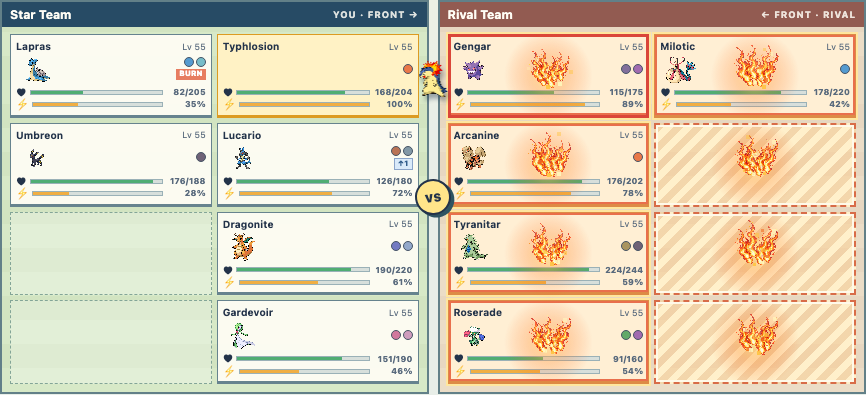
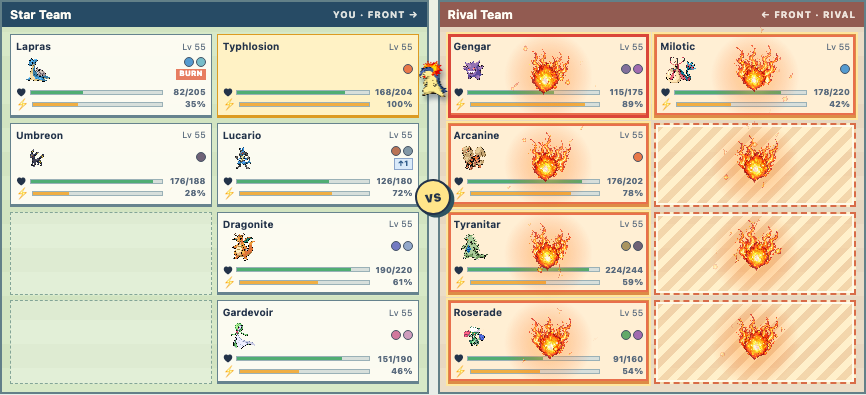
Refine Fire tile particles with varied ember sprites

diff --git a/web/src/battles/dev/FireVfxPrototype.tsx b/web/src/battles/dev/FireVfxPrototype.tsx
@@ -2,6 +2,9 @@
 import { useEffect, useRef, useState } from "react";
 import { createPortal } from "react-dom";
 import flameUrl from "../../../../media/vfx/experiments/fire-special-flame-source.png";
+import emberCoalUrl from "../../../../media/vfx/experiments/fire-ember-coal.png";
+import emberFleckUrl from "../../../../media/vfx/experiments/fire-ember-fleck.png";
+import emberForkUrl from "../../../../media/vfx/experiments/fire-ember-fork.png";
 
 export const fireVfxVariants = ["original", "bloom", "column", "burst"] as const;
 export type FireVfxVariant = typeof fireVfxVariants[number];
@@ -45,6 +48,7 @@ export const FireVfxSwitcher = ({ variant, onChange }: {
 };
 
 type Tile = { x: number; y: number; radius: number };
+type FireTextures = { flame: HTMLImageElement; embers: HTMLImageElement[] };
 const random = (seed: number) => {
   const value = Math.sin(seed * 127.1 + 311.7) * 43758.5453;
   return value - Math.floor(value);
@@ -74,29 +78,36 @@ const drawGlow = (ctx: CanvasRenderingContext2D, tile: Tile, time: number, stren
   ctx.fillRect(tile.x - radius, tile.y - radius, radius * 2, radius * 2);
 };
 
-const drawEmbers = (ctx: CanvasRenderingContext2D, tile: Tile, ms: number,
-  count: number, burst: boolean, seed: number) => {
+const drawEmbers = (ctx: CanvasRenderingContext2D, textures: FireTextures, tile: Tile,
+  ms: number, count: number, burst: boolean, seed: number) => {
   for (let index = 0; index < count; index++) {
-    const birth = burst ? 95 + random(seed + index * 7) * 110 : index * 40;
-    const life = 350 + random(seed + index * 13) * 260;
+    const particleSeed = seed + index * 101;
+    const birth = 35 + random(particleSeed + 7) * (burst ? 170 : 190);
+    const life = 180 + random(particleSeed + 13) * (burst ? 260 : 200);
     const age = (ms - birth) / life;
     if (age < 0 || age > 1) continue;
-    const angle = random(seed + index * 17) * Math.PI * 2;
-    const speed = (.4 + random(seed + index * 23)) * tile.radius;
-    const x = tile.x + (burst ? Math.cos(angle) * speed * age :
-      (random(seed + index * 19) - .5) * tile.radius * (.35 + age));
-    const y = tile.y + (burst ? Math.sin(angle) * speed * age :
-      tile.radius * .24 - speed * age * 1.2);
-    const size = Math.max(1.5, tile.radius * (.045 + random(seed + index * 29) * .045));
-    ctx.globalAlpha = Math.pow(1 - age, .7) * .95;
-    ctx.fillStyle = index % 3 === 0 ? "#fff8bd" : index % 3 === 1 ? "#ffc545" : "#f36c24";
-    ctx.fillRect(Math.round(x), Math.round(y), Math.ceil(size), Math.ceil(size));
+    // Every particle has a stable seed so replaying the story reproduces its motion.
+    const angle = (burst ? random(particleSeed + 17) * Math.PI * 2 :
+      -Math.PI / 2 + (random(particleSeed + 17) - .5) * Math.PI * 1.5);
+    const speed = (.45 + random(particleSeed + 23) * .95) * tile.radius;
+    const originX = (random(particleSeed + 19) - .5) * tile.radius * .55;
+    const originY = (random(particleSeed + 31) - .5) * tile.radius * .35;
+    const x = tile.x + originX + Math.cos(angle) * speed * age;
+    const y = tile.y + originY + Math.sin(angle) * speed * age;
+    const size = Math.max(4, tile.radius * (.14 + random(particleSeed + 29) * .13)) * (1 - age * .35);
+    const sprite = textures.embers[Math.floor(random(particleSeed + 37) * textures.embers.length)];
+    ctx.save();
+    ctx.translate(x, y);
+    ctx.rotate((random(particleSeed + 41) - .5) * 1.2 + age * (random(particleSeed + 43) - .5));
+    ctx.globalAlpha = Math.min(1, age * 7) * Math.pow(1 - age, .8) * .9;
+    ctx.drawImage(sprite, -size / 2, -size / 2, size, size);
+    ctx.restore();
   }
-  ctx.globalAlpha = 1;
 };
 
-const drawTile = (ctx: CanvasRenderingContext2D, image: HTMLImageElement,
+const drawTile = (ctx: CanvasRenderingContext2D, textures: FireTextures,
   tile: Tile, ms: number, variant: Exclude<FireVfxVariant, "original">, seed: number) => {
+  const image = textures.flame;
   const time = clamp(ms / 760);
   if (variant === "bloom") {
     drawGlow(ctx, tile, time, .7);
@@ -111,7 +122,17 @@ const drawTile = (ctx: CanvasRenderingContext2D, image: HTMLImageElement,
         tile.y + Math.sin(angle) * distance * .55 + tile.radius * .2 - age * tile.radius * .33,
         size * .6, size, Math.cos(angle) * .32, fade(age) * .76);
     }
-    drawEmbers(ctx, tile, ms, 13, false, seed);
+    // One larger coal anchors the bloom and outlives the surrounding flame tongues.
+    const coalAge = ms / 760;
+    const coalSize = tile.radius * (.79 + random(seed + 61) * .18) * (1 - coalAge * .12);
+    ctx.save();
+    ctx.translate(tile.x + (random(seed + 67) - .5) * tile.radius * .12,
+      tile.y + tile.radius * .08 - coalAge * tile.radius * .1);
+    ctx.rotate((random(seed + 71) - .5) * .25);
+    ctx.globalAlpha = Math.min(1, coalAge * 12) * Math.pow(1 - coalAge, .45) * .95;
+    ctx.drawImage(textures.embers[0], -coalSize / 2, -coalSize / 2, coalSize, coalSize);
+    ctx.restore();
+    drawEmbers(ctx, textures, tile, ms, 13, false, seed);
   } else if (variant === "column") {
     drawGlow(ctx, { ...tile, y: tile.y + tile.radius * .25 }, time, .5);
     for (let index = 0; index < 8; index++) {
@@ -124,7 +145,7 @@ const drawTile = (ctx: CanvasRenderingContext2D, image: HTMLImageElement,
         tile.y + tile.radius * .42 - age * tile.radius * 1.05,
         size * .62, size, sway / tile.radius * .7, fade(age) * .75);
     }
-    drawEmbers(ctx, tile, ms, 12, false, seed + 101);
+    drawEmbers(ctx, textures, tile, ms, 12, false, seed + 101);
   } else {
     drawGlow(ctx, tile, clamp((ms - 50) / 500), .95);
     for (let index = 0; index < 4; index++) {
@@ -137,7 +158,7 @@ const drawTile = (ctx: CanvasRenderingContext2D, image: HTMLImageElement,
         tile.y + tile.radius * .22 - age * tile.radius * .27,
         size * .66, size, angle, fade(age) * .9);
     }
-    drawEmbers(ctx, tile, ms, 23, true, seed + 203);
+    drawEmbers(ctx, textures, tile, ms, 23, true, seed + 203);
   }
 };
 
@@ -153,8 +174,15 @@ export const FireVfxPrototype = ({ variant, replayKey }: {
     const canvas = canvasRef.current;
     const ctx = canvas.getContext("2d");
     if (!ctx) return;
-    const image = new Image();
-    image.src = flameUrl;
+    const imageFor = (url: string) => {
+      const image = new Image();
+      image.src = url;
+      return image;
+    };
+    const textures: FireTextures = {
+      flame: imageFor(flameUrl),
+      embers: [emberCoalUrl, emberFleckUrl, emberForkUrl].map(imageFor),
+    };
     let frame = 0;
     let disposed = false;
     let tiles: Tile[] = [];
@@ -184,8 +212,10 @@ export const FireVfxPrototype = ({ variant, replayKey }: {
       const height = canvas.height / Math.min(window.devicePixelRatio || 1, 2);
       ctx.clearRect(0, 0, width, height);
       const effectMs = elapsed - 405;
-      if (image.complete && image.naturalWidth > 0 && effectMs >= 0 && effectMs <= 760) {
-        tiles.forEach((tile, index) => drawTile(ctx, image, tile, effectMs, variant, index * 1009 + 17));
+      const images = [textures.flame, ...textures.embers];
+      if (images.every((image) => image.complete && image.naturalWidth > 0) &&
+        effectMs >= 0 && effectMs <= 760) {
+        tiles.forEach((tile, index) => drawTile(ctx, textures, tile, effectMs, variant, index * 1009 + 17));
       }
       if (elapsed < 1500) frame = requestAnimationFrame(render);
     };

diff --git a/docs/prototypes/fire-vfx/README.md b/docs/prototypes/fire-vfx/README.md
@@ -19,9 +19,13 @@ to compare the current SVG with three particle behaviors:
 
 The canvas spans the existing battle board, draws at every executed tile (including
 empty tiles), and shares the move's 1.5-second playback interval. The three new
-variants use the same generated transparent source image at
-`media/vfx/experiments/fire-special-flame-source.png`, plus code-drawn glow and
-embers. The effect is excluded from production builds.
+variants use the generated transparent flame source at
+`media/vfx/experiments/fire-special-flame-source.png` and three small generated
+ember sprites (`fire-ember-coal.png`, `fire-ember-fleck.png`, and
+`fire-ember-fork.png`). The bloom has one larger central coal that lasts for the
+whole effect, while smaller embers have individually seeded birth times,
+lifetimes, directions, sizes, rotations, and sprite selections. The seed keeps
+replays visually consistent. The effect is excluded from production builds.
 
 The mobile layout was also checked with the column variant:
 
@@ -30,3 +34,17 @@ The mobile layout was also checked with the column variant:
 The next decision is which behavior and visual scale to keep, or whether a baked
 sprite sheet is preferable. Once chosen, rewrite that behavior as the production
 Fire Special renderer and remove the prototype switcher and unused variants.
+
+Before production, the move actor and tile effects need one playback clock. The
+prototype currently aligns a canvas timeline to a CSS actor animation by fixed
+offset, which can drift if either timing changes. The source flame is also a large
+generated bitmap scaled into small tiles; authoring at the target pixel scale or
+building a compact atlas would provide sharper, more consistent art. Check the
+effect on lower-powered phones when more targets or overlapping effects are added.
+
+Pokémon Showdown is a useful choreography reference: its [animation
+renderer](https://github.com/smogon/pokemon-showdown-client/blob/master/play.pokemonshowdown.com/src/battle-animations.ts)
+places image effects at timed positions, and its [move animation
+table](https://github.com/smogon/pokemon-showdown-client/blob/master/play.pokemonshowdown.com/src/battle-animations-moves.ts)
+reuses behaviors across moves. Its [client license](https://github.com/smogon/pokemon-showdown-client#license)
+is AGPLv3, so this study uses independently generated art and code.
